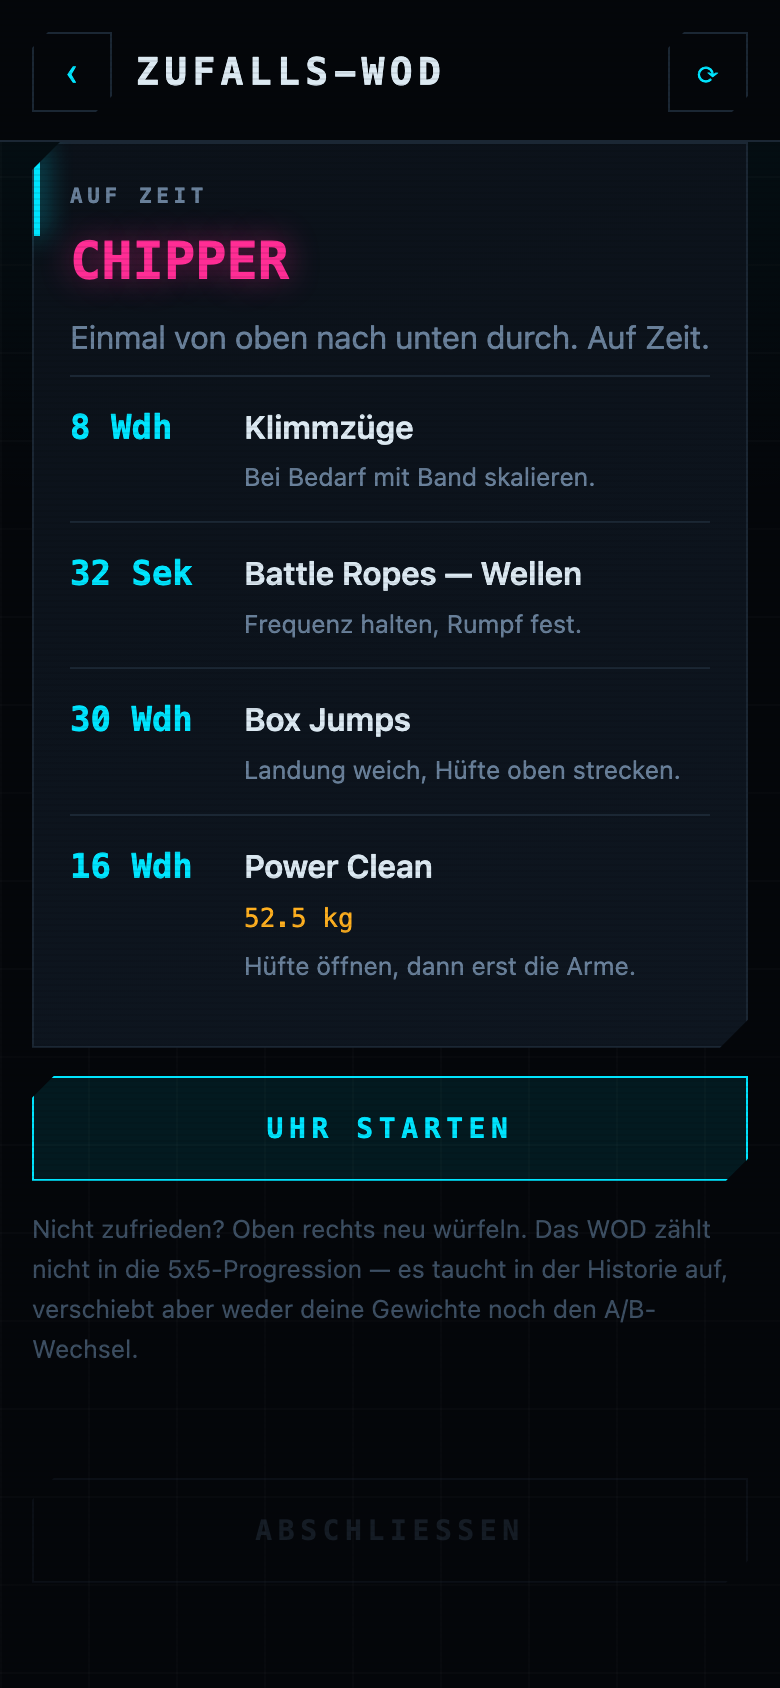
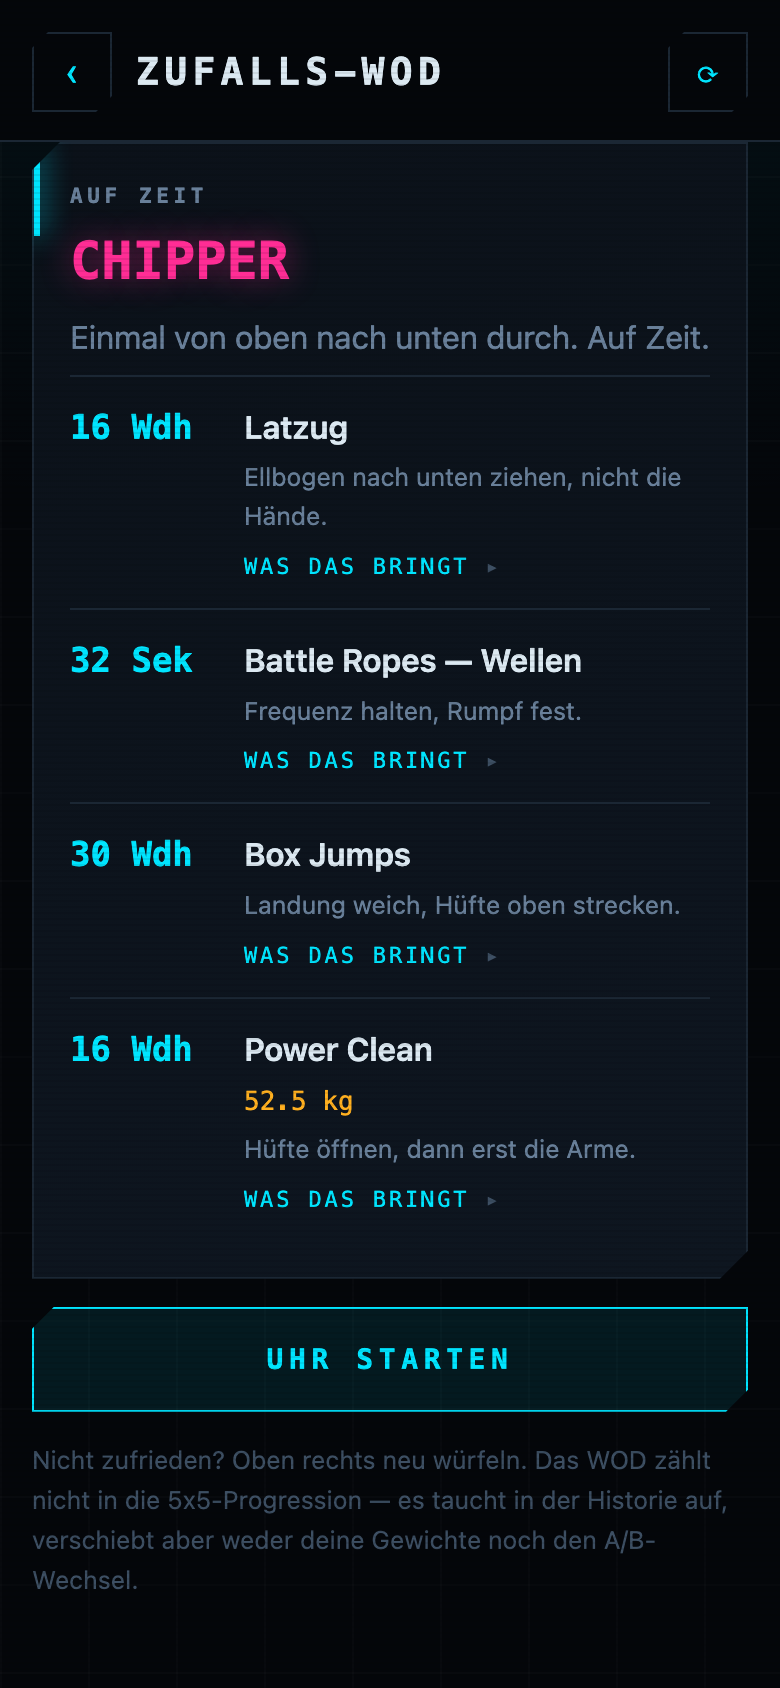
Screenshots neu, README auf 272 Tests und die Ausstattung

diff --git a/README.md b/README.md
@@ -4,7 +4,7 @@
 
 <p align="center">
   <a href="https://cyphomat.github.io/lifty/"><img alt="App öffnen" src="https://img.shields.io/badge/App-öffnen-00e5ff?style=for-the-badge&labelColor=0b1119"></a>
-  <img alt="Tests" src="https://img.shields.io/badge/Tests-265%20grün-00ff9d?style=for-the-badge&labelColor=0b1119">
+  <img alt="Tests" src="https://img.shields.io/badge/Tests-272%20grün-00ff9d?style=for-the-badge&labelColor=0b1119">
   <img alt="Build" src="https://img.shields.io/badge/Build-keiner-ff2d95?style=for-the-badge&labelColor=0b1119">
   <img alt="Abhängigkeiten" src="https://img.shields.io/badge/Abhängigkeiten-0-69809a?style=for-the-badge&labelColor=0b1119">
 </p>
@@ -74,7 +74,8 @@
 | **Woche im Kalender** | Geplante Einheiten landen auf Wunsch im intervals.icu-Kalender. |
 | **Kraft → intervals.icu** | Jede Krafteinheit und jedes WOD als Aktivität, damit die gesamte Last in **einer** Kurve liegt. |
 | **Zufalls-WOD** | AMRAP, Auf Zeit, EMOM, Chipper, Tabata. Lasten aus dem aktuellen Stand abgeleitet, nie zwei Langhantelteile. |
-| **Skalierung** | Jede der 18 Übungen nennt konkrete Alternativen. „Kann ich nicht" nimmt eine dauerhaft aus dem Generator — steht in `config.json`, gilt also auf jedem Gerät. |
+| **Erklärtexte** | Jede Übung sagt in zwei Sätzen, was sie trainiert und worauf zu achten ist — lesbar zwischen zwei Sätzen. |
+| **Skalierung** | Jede der 19 Übungen nennt konkrete Alternativen. „Kann ich nicht" nimmt eine dauerhaft aus dem Generator — steht in `config.json`, gilt also auf jedem Gerät. |
 | **Technik und Finisher** | Snatch Balance, Hang Power Clean, Overhead Squat · Battle Ropes, Farmer Walk. Täglich rotierend. |
 
 ### App
@@ -275,7 +276,7 @@ JSC=/System/Library/Frameworks/JavaScriptCore.framework/Versions/A/Helpers/jsc
 for t in program coach wod stats intervals; do $JSC --module-file=tests/$t.test.js; done
 ```
 
-**265 Tests**, ausgeführt von der JS-Engine, die in macOS ohnehin steckt.
+**272 Tests**, ausgeführt von der JS-Engine, die in macOS ohnehin steckt.
 Kein Node, kein Framework, keine Installation.
 
 Sie decken ab, was still kaputtgehen kann: Progression, Deload, Streak,
@@ -374,3 +375,7 @@ kannst oder nicht hast, gehört in `config.json` unter `wod.aus` — oder wird i
 der App weggetippt. Und jede Übung nennt Alternativen, weil ein Hinweis wie
 „bei Bedarf skalieren" nichts nützt, wenn man an der Stange gar nicht erst
 hochkommt.
+
+Der Pool ist auf eine konkrete Ausstattung zugeschnitten, die in `config.json`
+unter `orte` steht — Hebeplattform, Racks, Latzug, Rudergerät, Sprungkästen,
+Battle Ropes. Bei anderer Ausstattung gehört dort und im Pool nachgezogen.
